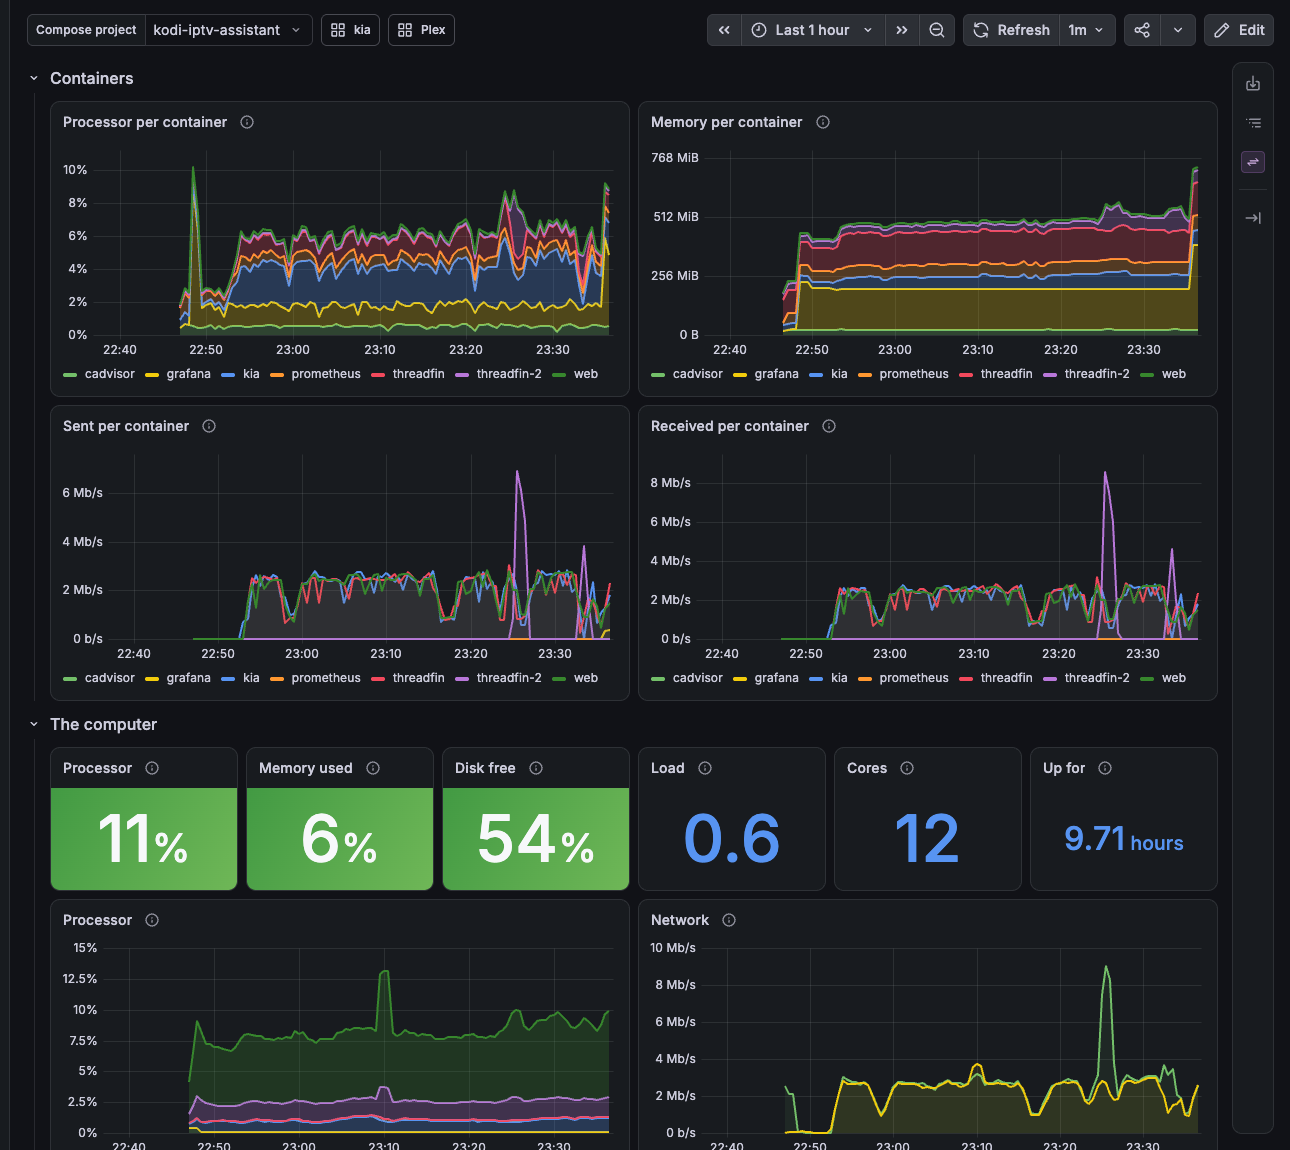
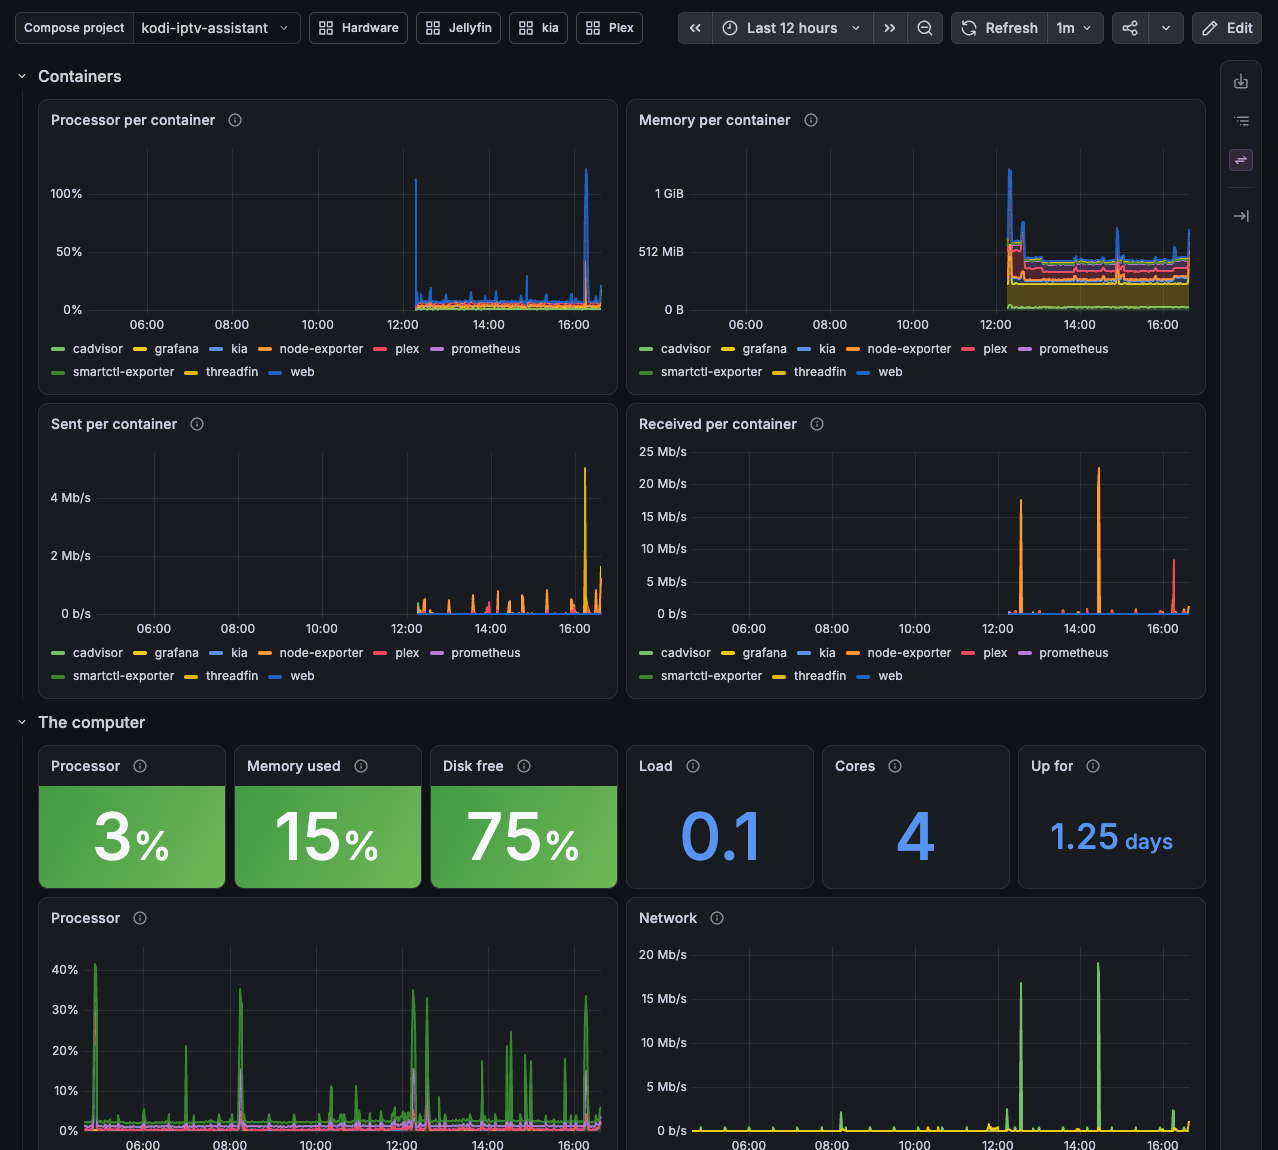
Humanizer pass, changelog, and a new TV stack screenshot

diff --git a/CHANGELOG.md b/CHANGELOG.md
@@ -55,6 +55,22 @@
 - The Pluto TV relay no longer waits to try an address again that it won't fetch (not https).
 - A `|` in a channel's group or id no longer breaks the table in `report.md`.
 
+
+### Observability
+
+- A Jellyfin dashboard in Grafana, like Plex's: whether Jellyfin answers, what's playing now on each player (by pseudonym), live TV against your own media, copied or converted video, players away from home, and what Jellyfin in the stack sends. It needs `KIA_JELLYFIN_URL` and `KIA_JELLYFIN_TOKEN`, the same settings as Jellyfin's numbers in `/metrics` ([graphs for your TV stack](docs/cookbooks/observability.md#5-jellyfin-optional)). `.env.example` already promised it.
+- The Hardware dashboard's *Converting on the card* and *Converting on the processor* tiles count Jellyfin's sessions as well as Plex's.
+
+### Docs
+
+- The README's manual install moves the copy to kia's newest release and asks for `PUID` and `PGID`, as [installing kia](docs/install.md) does.
+- "Channel sources" for the playlists kia reads, and "playlists" for the ones it makes, on the first pages a new user reads.
+- A Raspberry Pi, or any computer with less than 6 GB of memory, changes the three lighter settings already in `.env`. Adding them near the top did nothing, because the empty lines further down win.
+- Changes to `profiles.toml` show up at the next guide refresh, within 4 hours, or now with `kia refresh-guide`; the docs said to run the hour-long stream check.
+- [Metrics](docs/metrics.md) says `/metrics` shows what's playing on Plex and Jellyfin, by pseudonym, to anyone on your network.
+- Smaller corrections: a removed channel comes back after three good nights; Start here checks the Dashboard before setting up devices; Kodi's playlist address works once the first refresh is done; `observability` includes cAdvisor; the image versions you can pin include Jellyfin's and the disk exporter's; the Plex box cookbook works on macOS too.
+- The Kodi screenshots no longer carry the display's color profile, and the TV stack screenshot shows the current dashboards.
+
 ### Installing
 
 - The `plex-elsewhere` preset stopped the installer before kia started: Threadfin needs kia's `plex` playlist, which you make on the Dashboard after the first refresh. With either Plex preset, the installer now starts kia and lists what's next in order: make the playlist, then (for Plex in the stack) get the claim code, then run `scripts/stack.sh apply`. It used to say to get the claim code first, and it ran out while `apply` waited for the playlist.

diff --git a/docs/players.md b/docs/players.md
@@ -21,4 +21,4 @@ A smaller playlist from a profile makes any app quicker to load and easier to br
 
 ## Away from home
 
-kia is meant for your home network. To watch on a phone or laptop elsewhere, connect it to home with a VPN such as [Tailscale](https://tailscale.com), then use the same addresses (or the kia machine's Tailscale name). The playlist itself points at `KIA_PUBLIC_URL` for the guide and for [Pluto TV channels](how-it-works.md#pluto-tv), so that address has to work away from home too: either let Tailscale reach your home network (a [subnet router](https://tailscale.com/kb/1019/subnets), which lets Tailscale devices reach the rest of your home network), or set `KIA_PUBLIC_URL` to the Tailscale name, which then has to work at home as well. Don't open a port for kia on your router: anyone who found it could use your connection.
+kia is meant for your home network. To watch on a phone or laptop elsewhere, connect it to home with a VPN such as [Tailscale](https://tailscale.com), then use the same addresses (or the kia machine's Tailscale name). The playlist itself points at `KIA_PUBLIC_URL` for the guide and for [Pluto TV channels](how-it-works.md#pluto-tv), so that address has to work away from home too: either let Tailscale reach your home network (a [subnet router](https://tailscale.com/kb/1019/subnets)), or set `KIA_PUBLIC_URL` to the Tailscale name, which then has to work at home as well. Don't open a port for kia on your router: anyone who found it could use your connection.

diff --git a/docs/troubleshooting.md b/docs/troubleshooting.md
@@ -22,7 +22,7 @@ Some channels have no guide data anywhere. They show their own name in the guide
 
 ### A channel shows another channel's programs
 
-Most likely kia matched it to a guide by name, and the name belongs to a different channel. `mapping-report.html` lists every channel matched by name, with the name the guide site uses. Add the channel's guide ID (its `tvg-id`, the name the playlist gives its guide, shown in the report, such as `CNN.us`) to `ignore_name_matches` under `[epg]` in `kia.toml`, for example `ignore_name_matches = ["News12.us@SD"]`. From the next run, the channel uses another guide source or shows its own name.
+Most likely kia matched it to a guide by name, and the name belongs to a different channel. `mapping-report.html` lists every channel matched by name, with the name the guide site uses. Add the channel's guide ID (`tvg-id` in the report, such as `CNN.us`) to `ignore_name_matches` under `[epg]` in `kia.toml`, for example `ignore_name_matches = ["News12.us@SD"]`. From the next run, the channel uses another guide source or shows its own name.
 
 ### A channel won't play
 

diff --git a/docs/metrics.md b/docs/metrics.md
@@ -2,7 +2,7 @@
 
 kia publishes its numbers at `/metrics`, in the format [Prometheus](https://prometheus.io/) reads: `http://192.168.1.20:8780/metrics`, with your kia's address. Prometheus can then keep their history, and [Grafana](https://grafana.com/) can graph them and warn you when something changes, such as a nightly refresh that failed or a channel source that lost half its streams.
 
-The page needs no password. It holds no passwords or tokens, and mostly the numbers the Dashboard shows. With Plex or Jellyfin set up, it also shows what's playing on them now (live TV or a movie, at home or away), though each player shows by a pseudonym, not its name. Anyone on your network can read it.
+The page needs no password. It holds no passwords or tokens, and mostly the numbers the Dashboard shows. With Plex or Jellyfin set up, it also shows what's playing on them now (live TV or a movie, at home or away), with a pseudonym in place of each player's name. Anyone on your network can read it.
 
 ## Collecting them
 

diff --git a/docs/kodi.md b/docs/kodi.md
@@ -2,7 +2,7 @@
 
 Do this once on each Kodi device. (Using something else? See [choosing a player](players.md).) With the refresh setting in step 3, the channel list and guide then stay current without you doing anything.
 
-You need the address of the machine running kia, e.g. `http://192.168.1.20:8780` (the `KIA_PUBLIC_URL` from your `.env`). Check it first: opening `http://192.168.1.20:8780/curated.m3u` in a browser on the same network should download a file, once kia's first refresh has finished. Until then there's no playlist yet.
+You need the address of the machine running kia, e.g. `http://192.168.1.20:8780` (the `KIA_PUBLIC_URL` from your `.env`). Check it first: opening `http://192.168.1.20:8780/curated.m3u` in a browser on the same network should download a file. There's no playlist until kia's first refresh has finished.
 
 ## 1. Install Kodi
 
